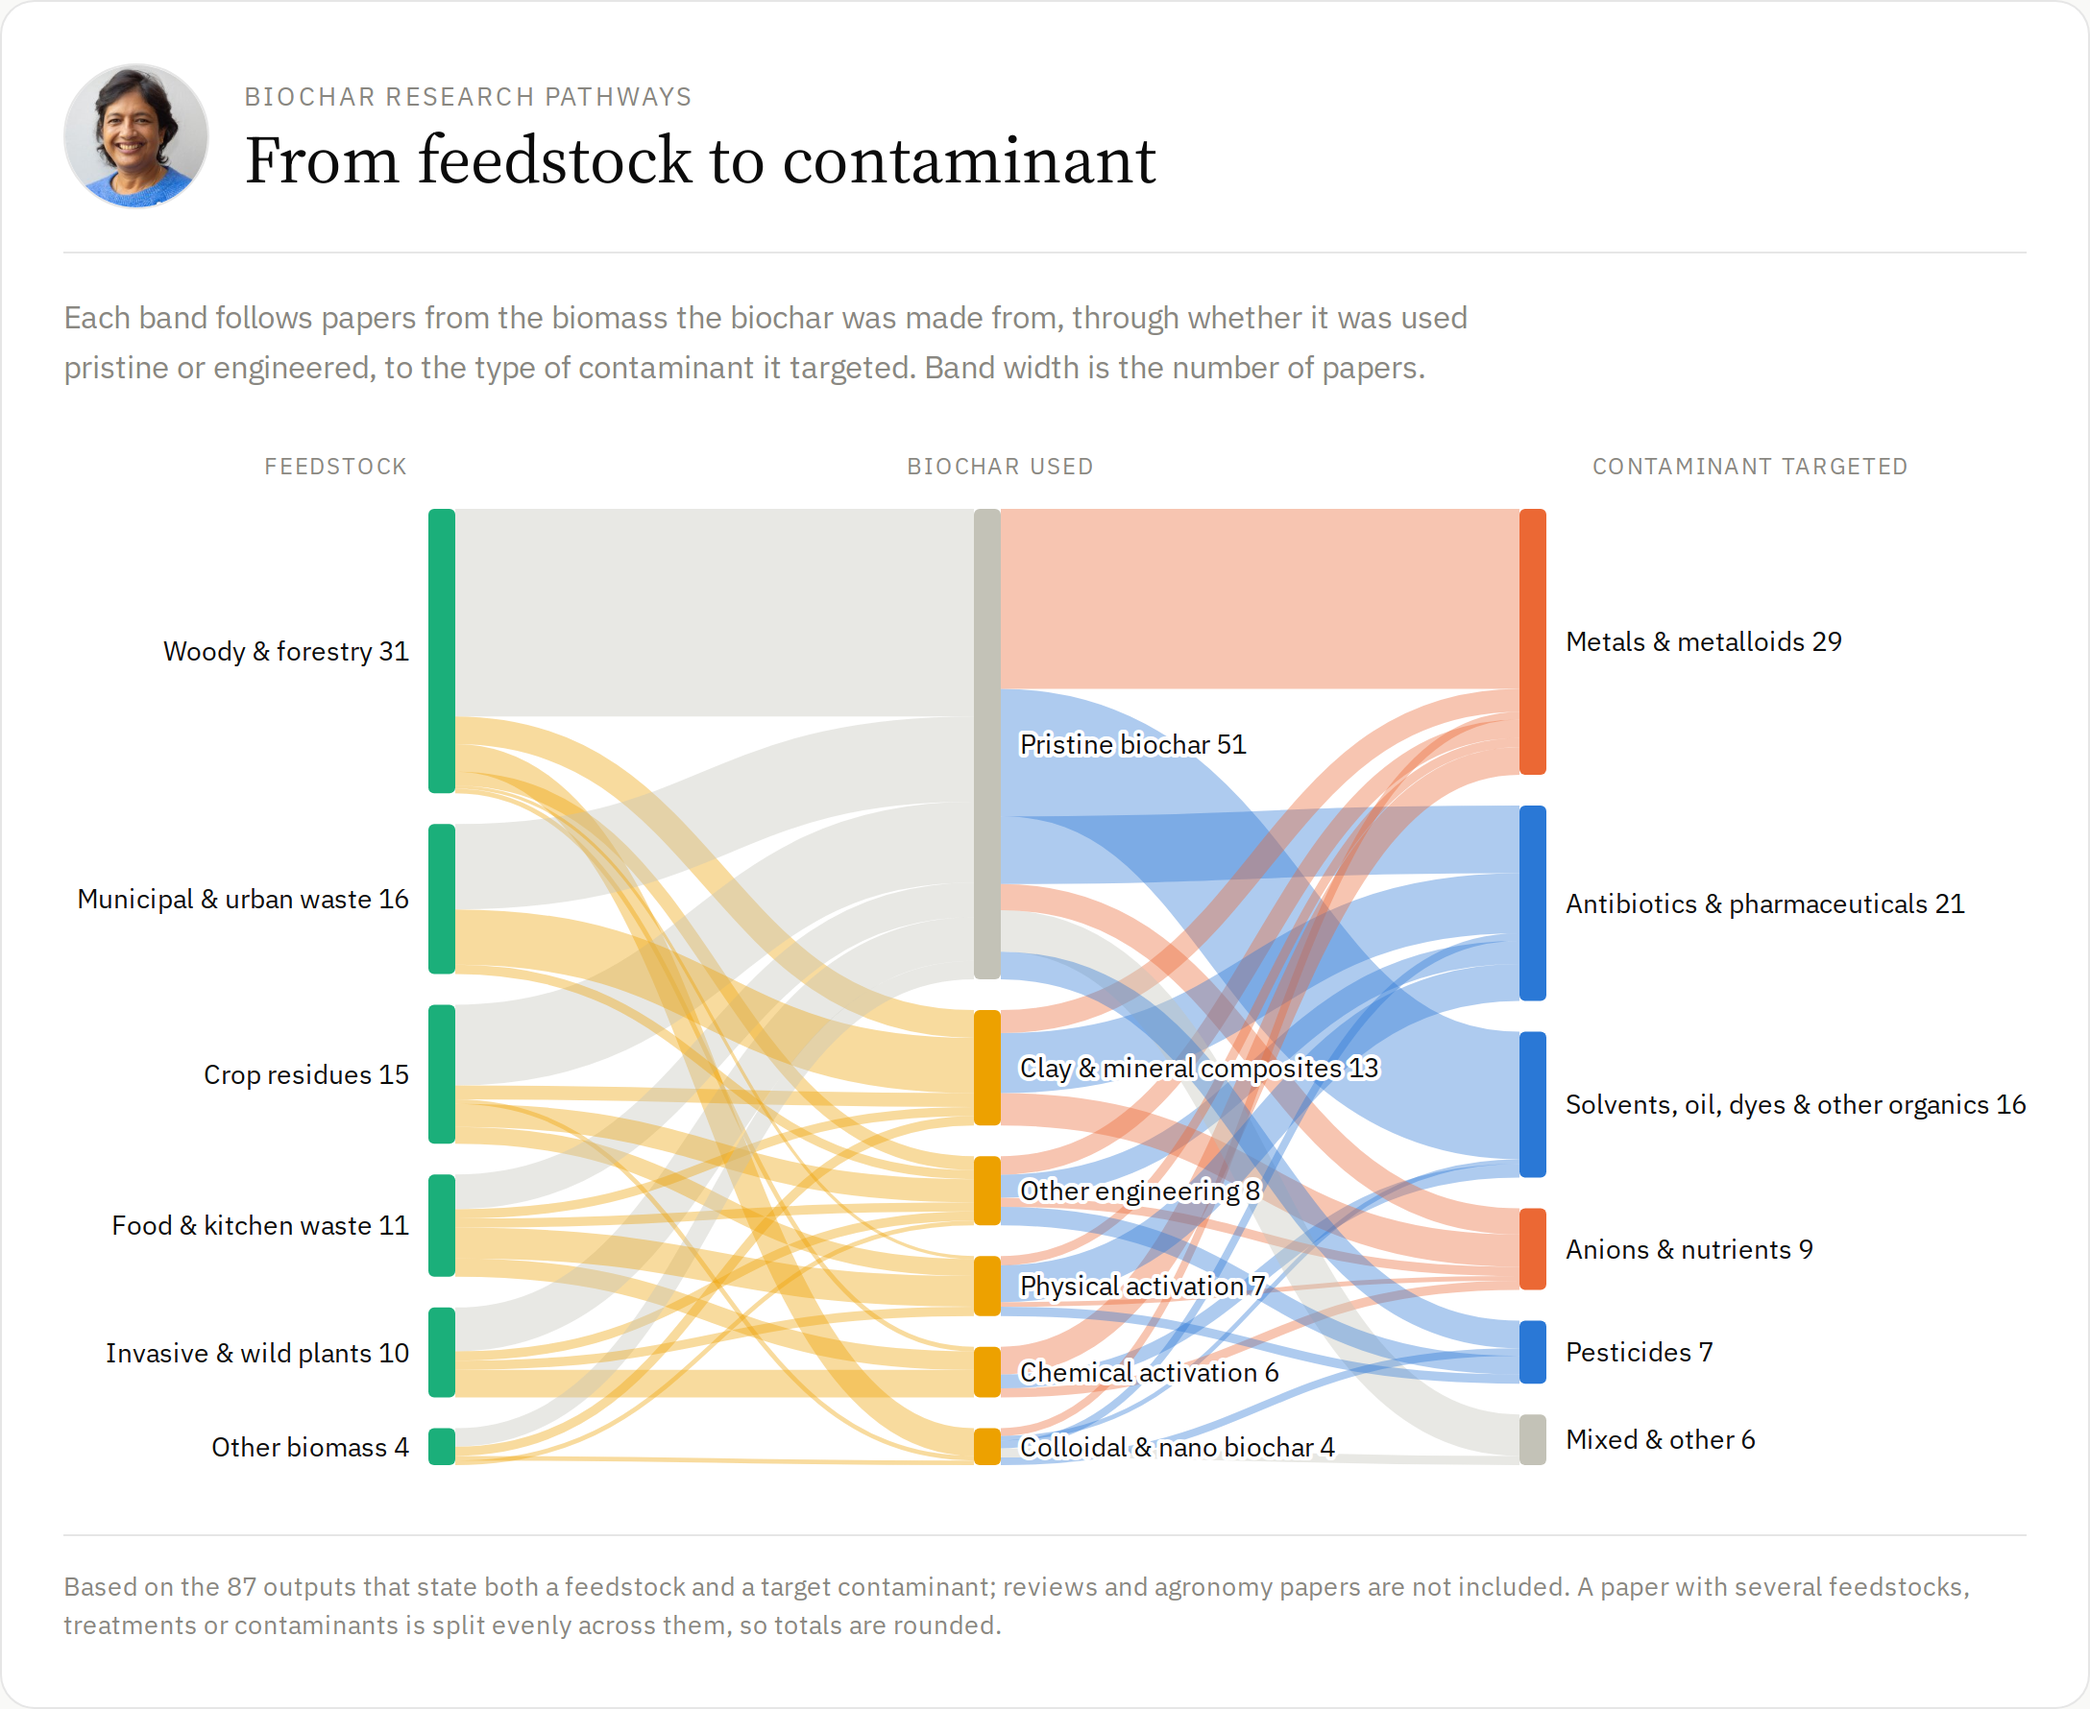
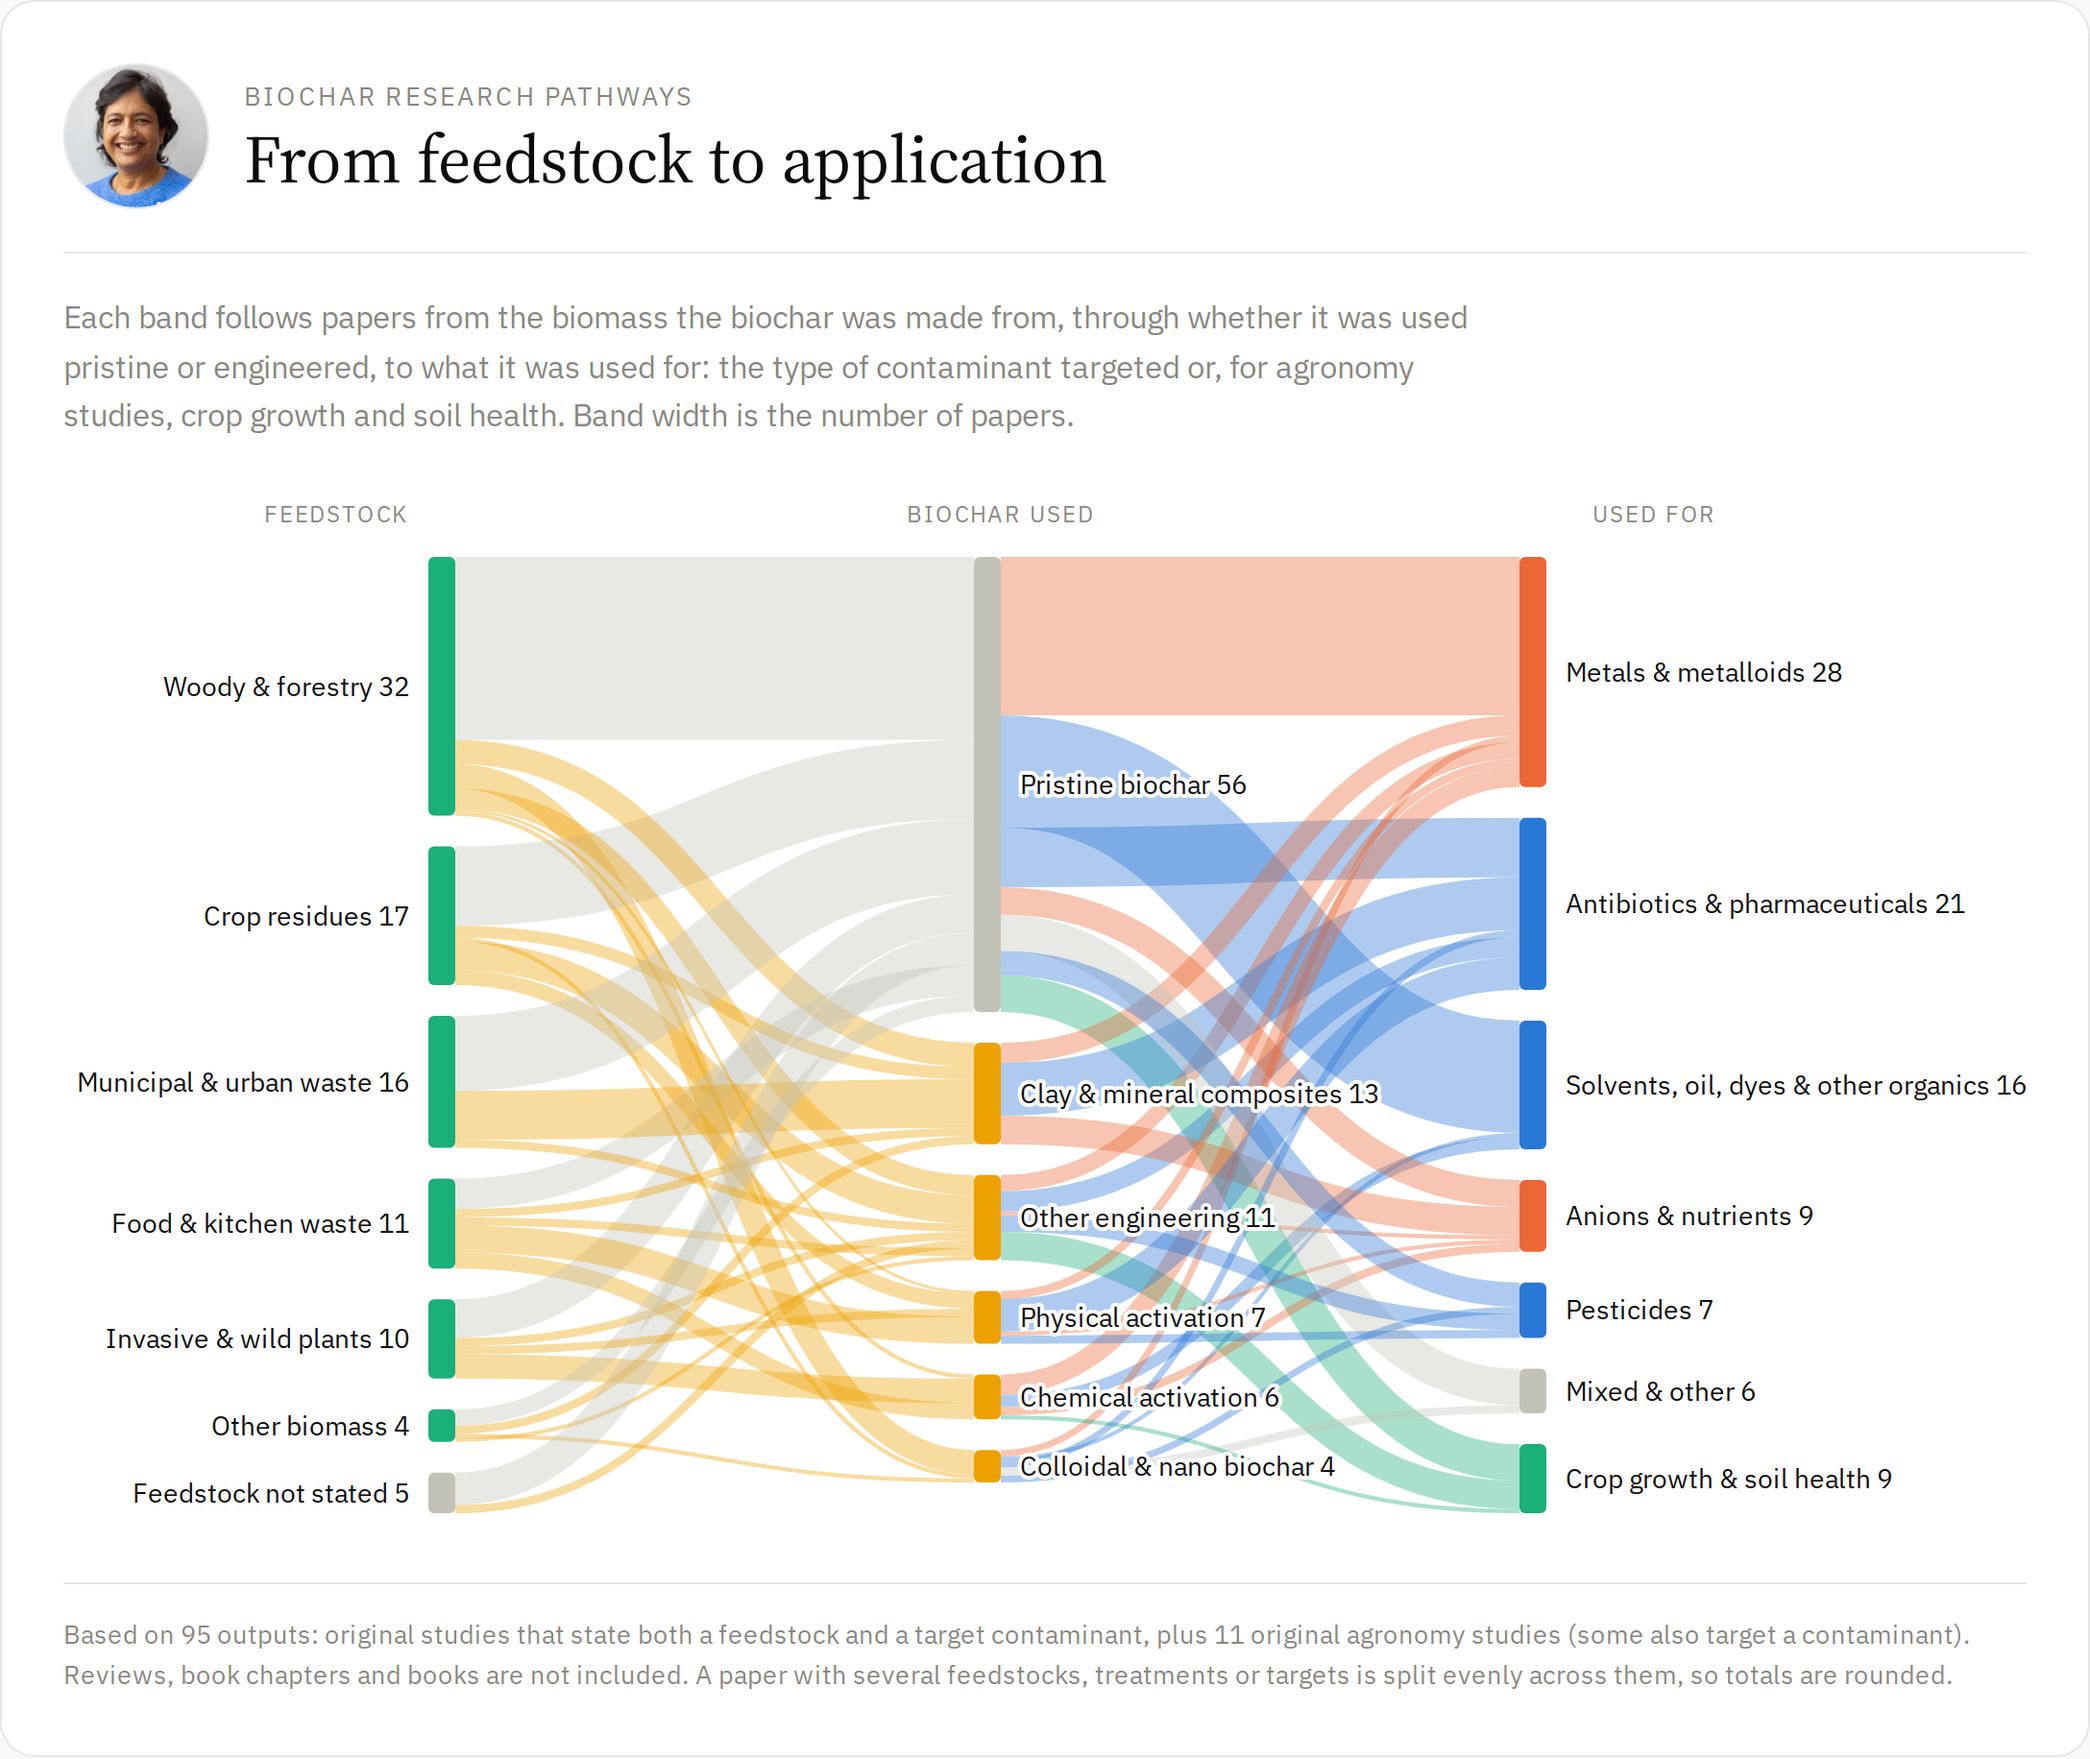
Include original agronomy studies in the flow diagram
Agronomy studies (not reviews, chapters or books) now flow to a
'Crop growth & soil health' target; those without a stated feedstock
start from 'Feedstock not stated'. 95 outputs, up from 87.

diff --git a/index.html b/index.html
@@ -987,13 +987,13 @@ document.querySelectorAll('#bp-q, #bp-medium, #bp-type, #bp-nature, #bp-eng').fo
           <img class="ig-photo" src="img/profile.jpg" width="76" height="76" alt="">
           <div>
             <p class="ig-eyebrow">Biochar research pathways</p>
-            <p class="ig-title">From feedstock to contaminant</p>
+            <p class="ig-title">From feedstock to application</p>
           </div>
         </div>
-        <p class="ig-lead">Each band follows papers from the biomass the biochar was made from, through whether it was used pristine or engineered, to the type of contaminant it targeted. Band width is the number of papers.</p>
+        <p class="ig-lead">Each band follows papers from the biomass the biochar was made from, through whether it was used pristine or engineered, to what it was used for: the type of contaminant targeted or, for agronomy studies, crop growth and soil health. Band width is the number of papers.</p>
         <p class="cz-hint">Swipe the diagram sideways to see all of it.</p>
-        <div class="cz-scroll"><div class="fl-box" id="flow-box" role="img" aria-label="Flow diagram linking feedstock groups to pristine or engineered biochar and then to contaminant types"></div></div>
-        <p class="ig-foot" id="flow-foot">Based on the outputs that state both a feedstock and a target contaminant; reviews and agronomy papers are not included. A paper with several feedstocks, treatments or contaminants is split evenly across them, so node totals are rounded.</p>
+        <div class="cz-scroll"><div class="fl-box" id="flow-box" role="img" aria-label="Flow diagram linking feedstock groups to pristine or engineered biochar and then to contaminant types or crop growth and soil health"></div></div>
+        <p class="ig-foot" id="flow-foot">Based on original studies that state both a feedstock and a target contaminant, plus original agronomy studies. Reviews, book chapters and books are not included. A paper with several feedstocks, treatments or targets is split evenly across them, so totals are rounded.</p>
       </div>
       <p class="cz-dl"><a href="img/infographic-flow.png" download="vithanage-biochar-flow.png">Download this view (PNG)</a></p>
     </div>
@@ -1104,34 +1104,56 @@ document.querySelectorAll('#bp-q, #bp-medium, #bp-type, #bp-nature, #bp-eng').fo
 
   /* ---------- Flow diagram ---------- */
   const tip = (box) => { let t = box.querySelector('.fl-tip'); if (!t) { t = el('div', 'fl-tip'); t.hidden = true; box.append(t); } return t; };
+  const AGRO = 'Crop growth & soil health', NOFEED = 'Feedstock not stated';
+  const flowOutputs = () => {
+    const m = {};
+    dash.data('tags').data.forEach((t) => {
+      const o = m[t.id] = m[t.id] || { F: new Set(), M: new Set(), C: new Set() };
+      if (t.facet === 'Feedstock') o.F.add(FEED[t.group]);
+      else if (t.facet === 'Modification') o.M.add(MOD[t.group]);
+      else o.C.add(CON[t.group][0]);
+    });
+    const res = [];
+    dash.data('outputs').data.forEach((r) => {
+      const o = m[r.id] || { F: new Set(), M: new Set(), C: new Set() };
+      const agro = String(r.themes).includes('Agronomy') && !['Review', 'Book chapter', 'Book'].includes(r.output_type);
+      if (!(o.F.size && o.C.size) && !agro) return;
+      const F = o.F.size ? o.F : new Set([NOFEED]);
+      const C = new Set(o.C); if (agro) C.add(AGRO);
+      res.push({ F, M: o.M, C, agro });
+    });
+    return res;
+  };
   window.drawFlow = () => {
     const box = document.getElementById('flow-box');
     if (!box || box.closest('[hidden]') || !d3.sankey) return;
-    const outs = byOutput();
+    const outs = flowOutputs();
     const nodes = new Map(), links = new Map();
     const node = (key, name, col, color) => { if (!nodes.has(key)) nodes.set(key, { key, name, col, color }); return key; };
     outs.forEach((o) => {
       const F = [...o.F], M = o.M.size ? [...o.M] : ['Pristine biochar'], C = [...o.C];
       const w = 1 / (F.length * M.length * C.length);
       F.forEach((f) => M.forEach((m) => C.forEach((c) => {
-        const nat = Object.values(CON).find((v) => v[0] === c)[1];
-        const a = node('f:' + f, f, 0, 'var(--c3)');
+        const nat = c === AGRO ? 'Agro' : Object.values(CON).find((v) => v[0] === c)[1];
+        const tc = nat === 'Agro' ? 'var(--c3)' : natureColor(nat);
+        const a = node('f:' + f, f, 0, f === NOFEED ? 'var(--cds-chart-muted)' : 'var(--c3)');
         const b = node('m:' + m, m, 1, m === 'Pristine biochar' ? 'var(--cds-chart-muted)' : 'var(--c4)');
-        const z = node('c:' + c, c, 2, natureColor(nat));
+        const z = node('c:' + c, c, 2, tc);
         const k1 = a + '|' + b, k2 = b + '|' + z;
         links.set(k1, { source: a, target: b, value: (links.get(k1)?.value || 0) + w, color: nodes.get(b).color });
-        links.set(k2, { source: b, target: z, value: (links.get(k2)?.value || 0) + w, color: natureColor(nat) });
+        links.set(k2, { source: b, target: z, value: (links.get(k2)?.value || 0) + w, color: tc });
       })));
     });
     const W = Math.max(780, box.clientWidth), H = 540, L = 190, Rt = 250;
     const totals = {}; links.forEach((l) => { totals[l.source] = (totals[l.source] || 0) + l.value; totals[l.target] = (totals[l.target] || 0) + l.value; });
-    const order = [...nodes.values()].sort((a, b) => a.col - b.col || (a.name === 'Pristine biochar' ? -1 : b.name === 'Pristine biochar' ? 1 : 0) || totals[b.key] - totals[a.key]);
+    const rank = (d) => (d.name === 'Pristine biochar' ? -1 : d.name === NOFEED || d.name === AGRO ? 1 : 0);
+    const order = [...nodes.values()].sort((a, b) => a.col - b.col || rank(a) - rank(b) || totals[b.key] - totals[a.key]);
     const graph = d3.sankey().nodeId((d) => d.key).nodeWidth(14).nodePadding(16).nodeSort(null).extent([[L, 34], [W - Rt, H - 8]])({
       nodes: order.map((d) => ({ ...d })), links: [...links.values()].map((d) => ({ ...d })) });
     box.replaceChildren();
     const svg = d3.select(box).append('svg').attr('viewBox', `0 0 ${W} ${H}`).attr('aria-hidden', 'true');
     const colX = [L, (L + W - Rt) / 2, W - Rt];
-    ['Feedstock', 'Biochar used', 'Contaminant targeted'].forEach((t, i) => svg.append('text').attr('class', 'fl-col').attr('x', i === 0 ? L - 10 : i === 2 ? W - Rt + 24 : colX[1] + 7).attr('y', 16).attr('text-anchor', i === 0 ? 'end' : i === 1 ? 'middle' : 'start').text(t));
+    ['Feedstock', 'Biochar used', 'Used for'].forEach((t, i) => svg.append('text').attr('class', 'fl-col').attr('x', i === 0 ? L - 10 : i === 2 ? W - Rt + 24 : colX[1] + 7).attr('y', 16).attr('text-anchor', i === 0 ? 'end' : i === 1 ? 'middle' : 'start').text(t));
     const t = tip(box.parentElement.parentElement);
     const show = (ev, html) => { t.replaceChildren(); t.append(el('strong', '', html[0]), el('span', '', html[1])); const r = box.parentElement.parentElement.getBoundingClientRect(); t.style.left = Math.min(ev.clientX - r.left + 12, r.width - 290) + 'px'; t.style.top = (ev.clientY - r.top + 12) + 'px'; t.hidden = false; };
     const hide = () => { t.hidden = true; };
@@ -1146,7 +1168,8 @@ document.querySelectorAll('#bp-q, #bp-medium, #bp-type, #bp-nature, #bp-eng').fo
       .attr('x', (d) => (d.col === 0 ? d.x0 - 10 : d.x1 + 10)).attr('y', (d) => (d.y0 + d.y1) / 2).attr('dy', '0.35em')
       .attr('text-anchor', (d) => (d.col === 0 ? 'end' : 'start'))
       .text((d) => d.name + '  ' + Math.round(d.value));
-    document.getElementById('flow-foot').textContent = 'Based on the ' + outs.length + ' outputs that state both a feedstock and a target contaminant; reviews and agronomy papers are not included. A paper with several feedstocks, treatments or contaminants is split evenly across them, so totals are rounded.';
+    const nAgro = outs.filter((o) => o.agro).length;
+    document.getElementById('flow-foot').textContent = 'Based on ' + outs.length + ' outputs: original studies that state both a feedstock and a target contaminant, plus ' + nAgro + ' original agronomy studies (some also target a contaminant). Reviews, book chapters and books are not included. A paper with several feedstocks, treatments or targets is split evenly across them, so totals are rounded.';
   };
 
   /* ---------- Feedstock × contaminant grid ---------- */
